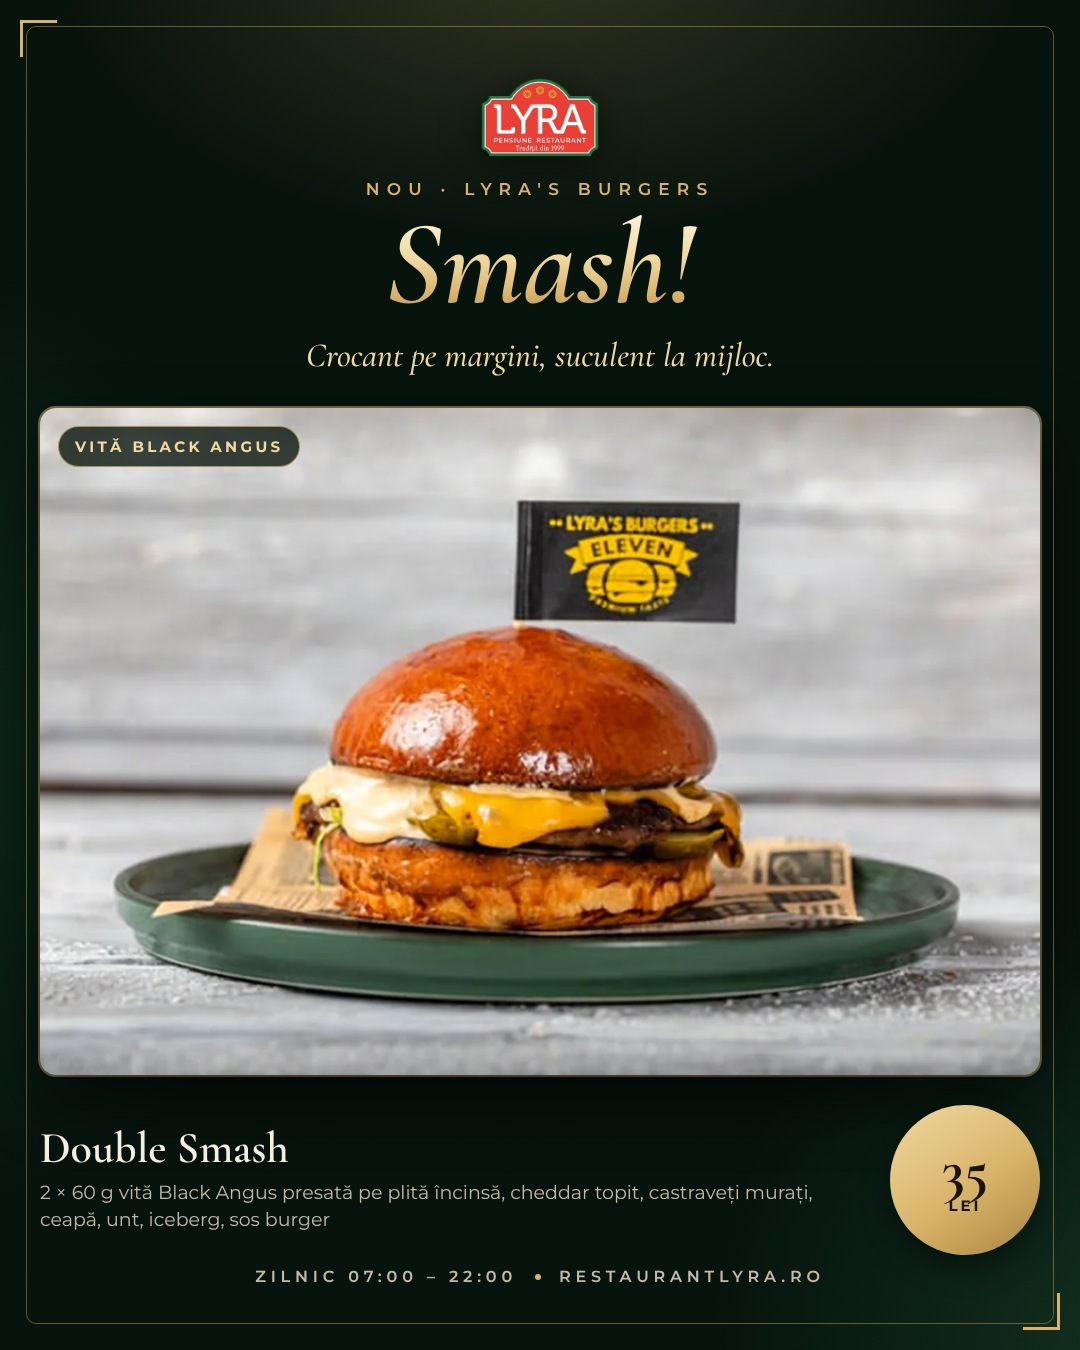
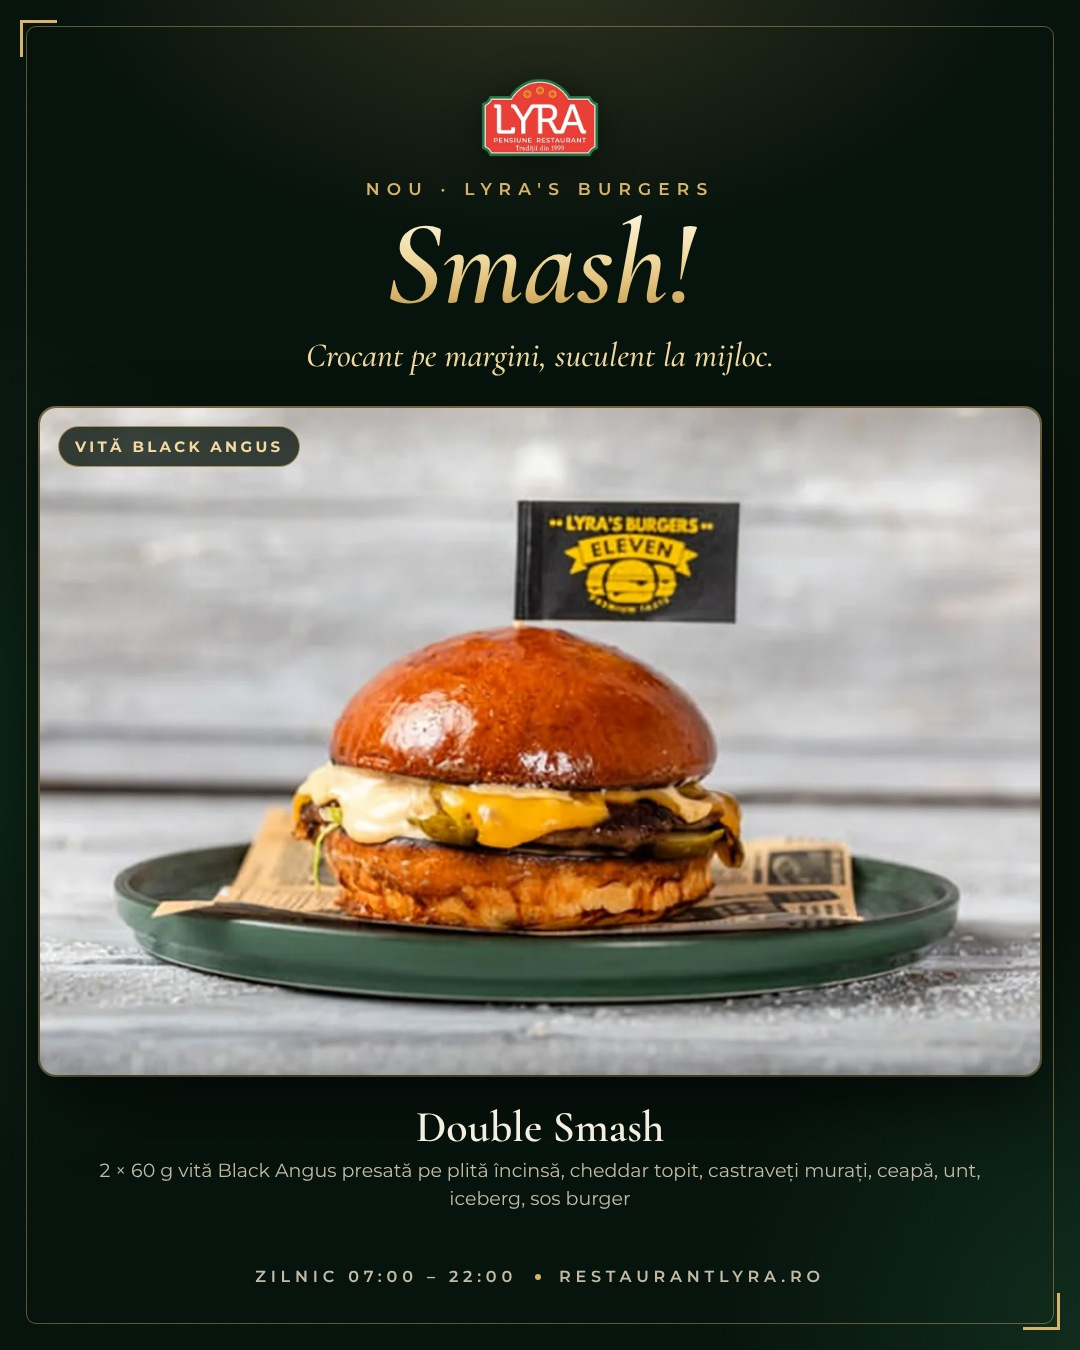
Social posts: remove all prices
Claude-Session: https://claude.ai/code/session_01YWqoAEnZfgrNzbfTc6BtjY

Changed region(s): [[0.0306, 0.8089, 0.7333, 0.9333], [0.825, 0.8089, 0.9778, 0.9333], [0.7639, 0.84, 0.7944, 0.8711]]

diff --git a/lyra/social/index.html b/lyra/social/index.html
@@ -47,7 +47,8 @@ h1{font-family:var(--serif);font-style:italic;font-weight:600;font-size:104px;li
   background:rgba(6,18,12,.78);border:1.5px solid rgba(216,180,106,.7);color:var(--gold2);backdrop-filter:blur(4px)}
 .chip.r{left:auto;right:18px}
 
-.dish{display:flex;align-items:center;justify-content:space-between;gap:30px;width:1000px;margin-top:30px;text-align:left}
+.dish{display:flex;justify-content:center;width:1000px;margin-top:30px;text-align:center}
+.dish .t{max-width:900px}
 .dish .t b{display:block;font-family:var(--serif);font-weight:600;font-size:44px;line-height:1.02}
 .dish .t span{display:block;font-size:19px;line-height:1.45;color:var(--muted);margin-top:8px}
 .price{flex:none;width:150px;height:150px;border-radius:50%;display:grid;place-items:center;align-content:center;
@@ -72,7 +73,8 @@ h1{font-family:var(--serif);font-style:italic;font-weight:600;font-size:104px;li
 .crow .ph{width:520px;flex:none}
 .crow .col{flex:1;display:flex;flex-direction:column;padding:6px 0 4px}
 .menu-list{margin-top:44px;width:100%}
-.menu-list div{display:flex;align-items:baseline;gap:10px;padding:16px 0;border-bottom:1.5px solid rgba(216,180,106,.28)}
+.menu-list div{display:flex;align-items:baseline;gap:14px;padding:16px 0;border-bottom:1.5px solid rgba(216,180,106,.28)}
+.menu-list div::before{content:"✦";color:var(--gold);font-size:18px}
 .menu-list span{font-family:var(--serif);font-weight:600;font-size:30px;line-height:1.1}
 .menu-list i{flex:1}
 .menu-list b{font-family:var(--serif);font-weight:700;font-size:34px;color:var(--gold2);white-space:nowrap}
@@ -136,12 +138,12 @@ h1{font-family:var(--serif);font-style:italic;font-weight:600;font-size:104px;li
     <div class="col">
       <div class="hu" style="font-size:30px;text-align:left">Cappuccino vagy eszpresszó?</div>
       <div class="menu-list" style="margin-top:26px">
-        <div><span>Espresso</span><i></i><b>13<small>LEI</small></b></div>
-        <div><span>Cappuccino</span><i></i><b>18<small>LEI</small></b></div>
-        <div><span>Cappuccino caramel</span><i></i><b>20<small>LEI</small></b></div>
-        <div><span>Cappuccino hazelnut</span><i></i><b>20<small>LEI</small></b></div>
-        <div><span>Cappuccino matcha</span><i></i><b>23<small>LEI</small></b></div>
-        <div><span>Freddo espresso</span><i></i><b>18<small>LEI</small></b></div>
+        <div><span>Espresso</span></div>
+        <div><span>Cappuccino</span></div>
+        <div><span>Cappuccino caramel</span></div>
+        <div><span>Cappuccino hazelnut</span></div>
+        <div><span>Cappuccino matcha</span></div>
+        <div><span>Freddo espresso</span></div>
       </div>
       <div class="lead" style="margin-top:auto;font-size:36px">Prima cafea a zilei,<br>de la ora 07:00.</div>
       <div class="tag" style="margin-top:20px;align-self:flex-start">Zilnic 07:00 – 22:00</div>
@@ -160,7 +162,6 @@ h1{font-family:var(--serif);font-style:italic;font-weight:600;font-size:104px;li
   <div class="ph big"><img src="../img/vin-cover.webp"></div>
   <div class="dish">
     <div class="t"><b>Albe, roze și roșii</b><span>Vinuri alese, multe le găsești și la pahar.<br>Un roșu sec lângă vită? Îți recomandăm noi.</span></div>
-    <div class="price"><small style="letter-spacing:.12em">DE LA</small><b>19</b><small style="font-size:12px;letter-spacing:.1em">LEI/PAHAR</small></div>
   </div>
   <div class="foot">Zilnic 07:00 – 22:00<i></i>restaurantlyra.ro</div>
   <div class="frame"></div>
@@ -188,7 +189,6 @@ h1{font-family:var(--serif);font-style:italic;font-weight:600;font-size:104px;li
   <div class="ph big"><img src="../img/double-smash.webp"><span class="chip">Vită Black Angus</span></div>
   <div class="dish">
     <div class="t"><b>Double Smash</b><span>2 × 60 g vită Black Angus presată pe plită încinsă, cheddar topit, castraveți murați, ceapă, unt, iceberg, sos burger</span></div>
-    <div class="price"><b>35</b><small>LEI</small></div>
   </div>
   <div class="foot">Zilnic 07:00 – 22:00<i></i>restaurantlyra.ro</div>
   <div class="frame"></div>
@@ -203,7 +203,6 @@ h1{font-family:var(--serif);font-style:italic;font-weight:600;font-size:104px;li
   <div class="ph big"><img src="../img/eleven-burger.webp"></div>
   <div class="dish">
     <div class="t"><b>Meniu Eleven Burger</b><span>Chiftea Black Angus, cheddar, bacon, dulceață de ceapă, iceberg, sos burger. Cu cartofi prăjiți cu parmezan și sosul casei.</span></div>
-    <div class="price"><b>64<span style="font-size:34px">,5</span></b><small>LEI</small></div>
   </div>
   <div class="foot">Zilnic 07:00 – 22:00<i></i>restaurantlyra.ro</div>
   <div class="frame"></div>
@@ -214,9 +213,9 @@ h1{font-family:var(--serif);font-style:italic;font-weight:600;font-size:104px;li
   <div class="kicker" style="margin-top:0">Smash burgers · Black Angus</div>
   <h1 class="gold" style="font-size:92px">Alege-ți smash-ul</h1>
   <div class="trio">
-    <div class="ph span"><img src="../img/spicy-smash.webp"><span class="chip">Cu jalapeño</span><div class="pchip"><b>Spicy Smash · 2 × 60 g</b><span>35<small>LEI</small></span></div></div>
-    <div class="ph sm"><img src="../img/smash-burger.webp"><div class="pchip"><b>Smash · 60 g</b><span>25<small>LEI</small></span></div></div>
-    <div class="ph sm"><img src="../img/double-smash.webp"><div class="pchip"><b>Double · 2 × 60 g</b><span>35<small>LEI</small></span></div></div>
+    <div class="ph span"><img src="../img/spicy-smash.webp"><span class="chip">Cu jalapeño</span><div class="pchip"><b>Spicy Smash · 2 × 60 g</b></div></div>
+    <div class="ph sm"><img src="../img/smash-burger.webp"><div class="pchip"><b>Smash · 60 g</b></div></div>
+    <div class="ph sm"><img src="../img/double-smash.webp"><div class="pchip"><b>Double · 2 × 60 g</b></div></div>
   </div>
   <div class="lead" style="margin-top:22px;font-size:30px">Vită Black Angus, presată pe plită încinsă, cu margini crocante.</div>
   <div class="foot">Válaszd ki a kedvenc smash-ed<i></i>restaurantlyra.ro</div>
@@ -232,7 +231,6 @@ h1{font-family:var(--serif);font-style:italic;font-weight:600;font-size:104px;li
   <div class="ph big"><img src="../img/sarmale.webp"></div>
   <div class="dish">
     <div class="t"><b>Sarmale cu ciolan și mămăliguță prăjită</b><span>Cu ardei iute și smântână. Și un pahar de zeamă de varză, dacă vrei să fie ca la carte.</span></div>
-    <div class="price"><b>60</b><small>LEI</small></div>
   </div>
   <div class="foot">Zilnic 07:00 – 22:00<i></i>restaurantlyra.ro</div>
   <div class="frame"></div>
@@ -247,7 +245,6 @@ h1{font-family:var(--serif);font-style:italic;font-weight:600;font-size:104px;li
   <div class="ph big"><img src="../img/papanas.webp"><span class="chip">Home made</span></div>
   <div class="dish">
     <div class="t"><b>Papanaș</b><span>Rumenit, cu smântână și dulceață de afine. Din brânză de vacă și telemea, făcut în casă.</span></div>
-    <div class="price"><b>33</b><small>LEI</small></div>
   </div>
   <div class="foot">Zilnic 07:00 – 22:00<i></i>restaurantlyra.ro</div>
   <div class="frame"></div>
